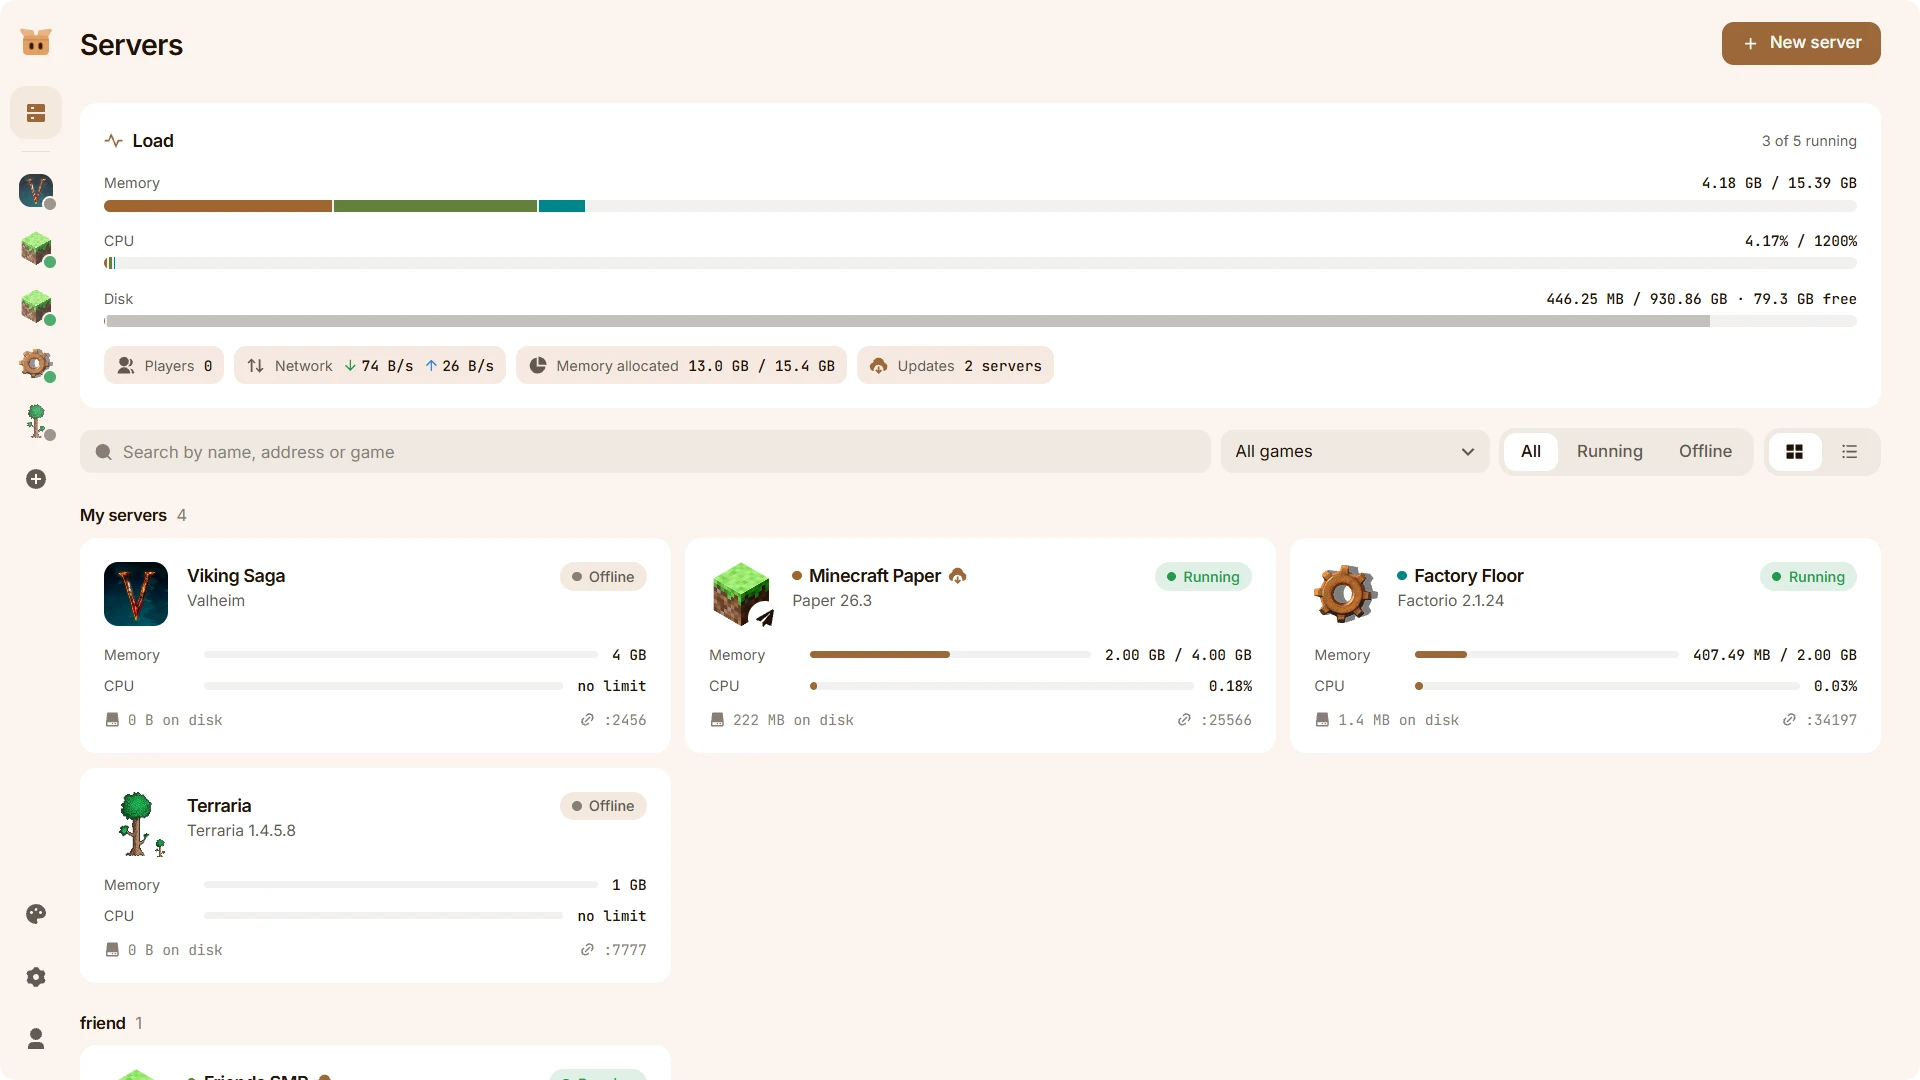
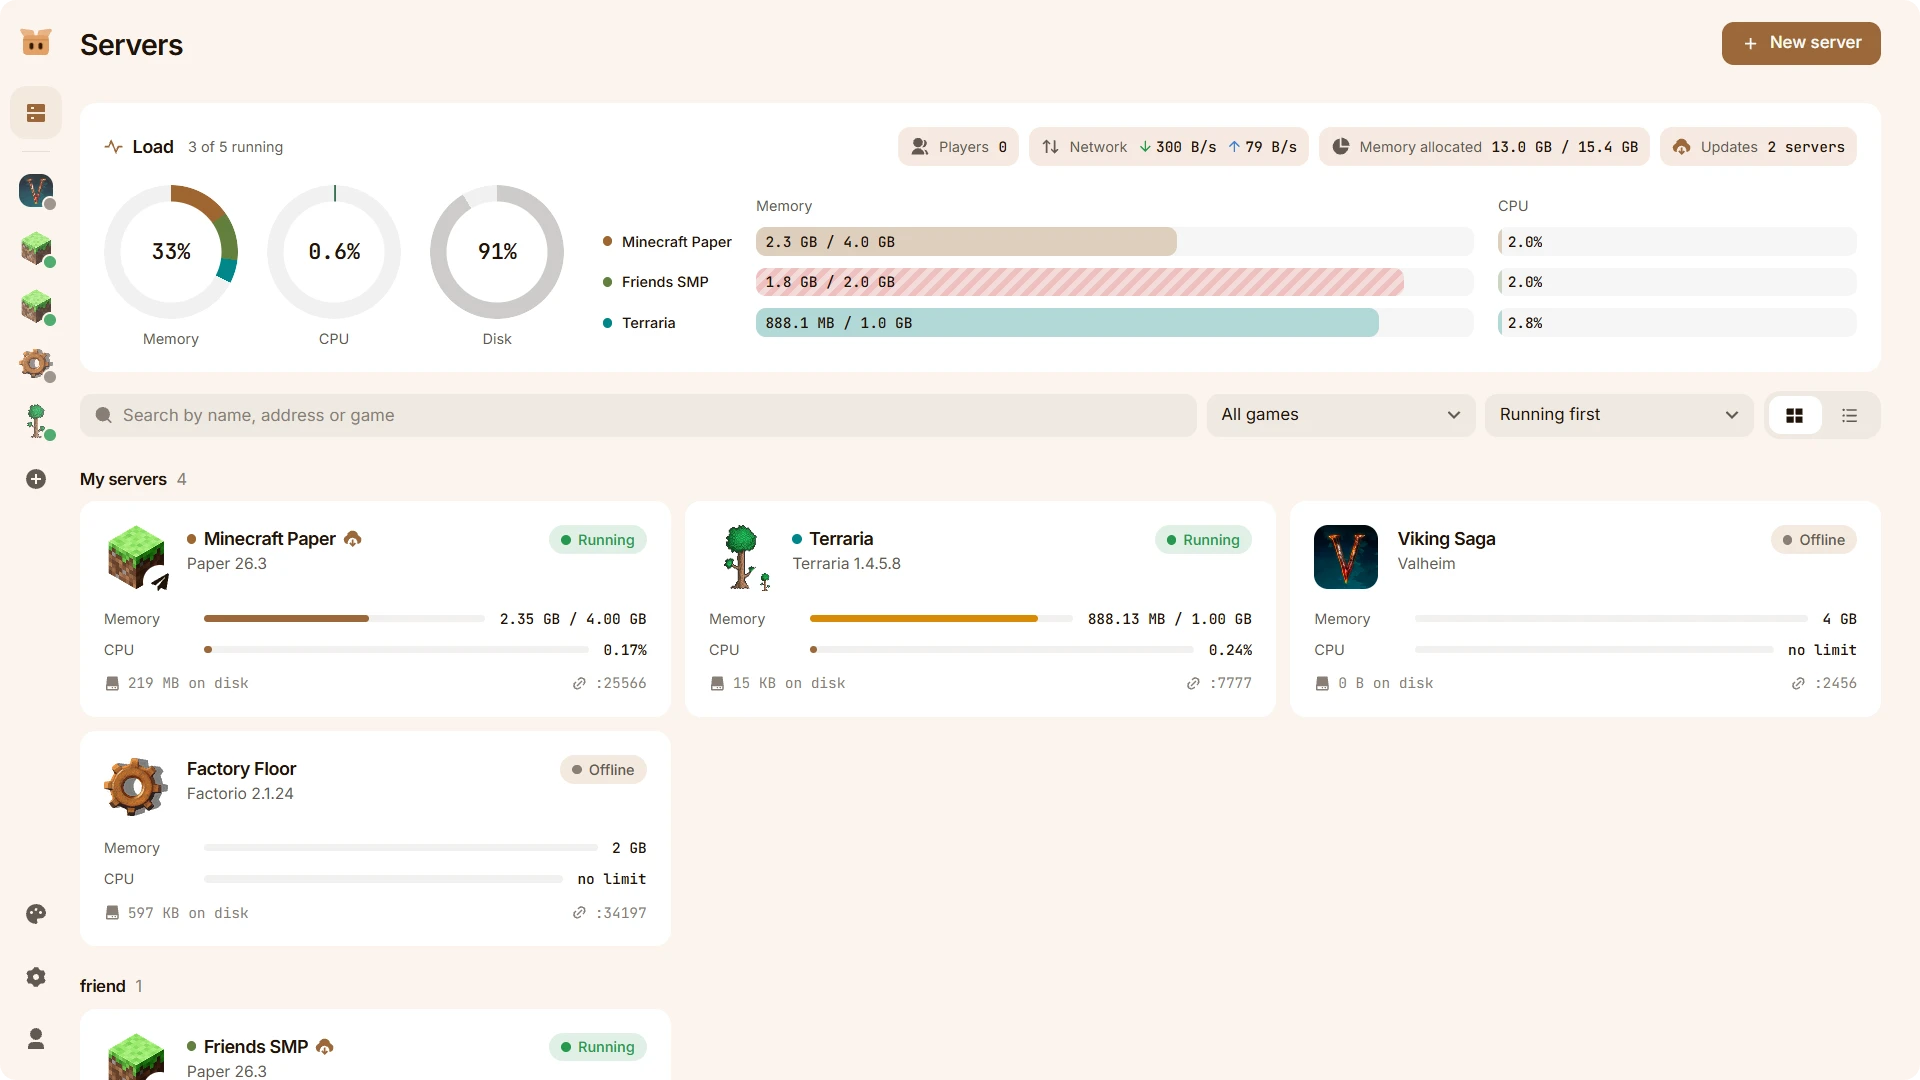
feat: load overview with rings and a per-server table, servers sorted by status
Memory, CPU and disk are rings split by server, and running servers get
a table with memory and CPU bars against their own limits; a bar over
90% turns into moving warning stripes. The five heaviest servers show
first, the rest behind a toggle. Players, network, allocated memory and
updates sit in the card header. The status filter is now a sort,
running servers first by default. Fresh servers screenshot for the README.

diff --git a/apps/web/src/pages/servers.tsx b/apps/web/src/pages/servers.tsx
@@ -1,6 +1,6 @@
 import { RiAddFill, RiDownloadCloud2Fill, RiHardDrive3Fill, RiLayoutGridFill, RiLinkM, RiListUnordered, RiPulseFill, RiGroupFill, RiArrowDownLine, RiArrowUpLine, RiArrowUpDownLine, RiPieChart2Fill, RiSearchFill } from '@remixicon/react'
 import { useQueries, useQuery } from '@tanstack/react-query'
-import type { GameTemplate, QuickStats, Server, ServerStatus } from '@hako/shared'
+import type { GameTemplate, QuickStats, Server } from '@hako/shared'
 import { Button, Card, EmptyState, Input, Segmented, Select, Skeleton, Tooltip, cn } from '@hako/ui'
 import { Fragment, type ReactNode, useState } from 'react'
 import { useTranslation } from 'react-i18next'
@@ -17,8 +17,8 @@ import { formatBytes } from '../lib/format'
 import { ServerSummary } from './server'
 
 const GRID = 'grid grid-cols-1 gap-3 sm:grid-cols-2 xl:grid-cols-3'
-const STATUS_FILTERS = ['all', 'running', 'offline'] as const
-type StatusFilter = (typeof STATUS_FILTERS)[number]
+const SORTS = ['running', 'offline'] as const
+type Sort = (typeof SORTS)[number]
 type View = 'grid' | 'list'
 const VIEW_KEY = 'hako:servers-view'
 
@@ -86,16 +86,16 @@ function segmentColor(index: number) {
   return `oklch(from var(--color-accent) l max(c, 0.1) calc(h + ${index * 67}))`
 }
 
-type Segment = { id: string; amount: number; color: string; tip: ReactNode }
+type Segment = { id: string; amount: number; color: string }
 
 function SegmentTip({ color, title, rows }: { color: string; title: ReactNode; rows: [string, ReactNode][] }) {
   return (
-    <div className="flex min-w-44 flex-col gap-1.5">
+    <div className="flex min-w-56 flex-col gap-2.5 p-1.5">
       <div className="flex items-center gap-2 font-medium">
         <span className="size-2 shrink-0 rounded-full" style={{ background: color }} />
         <span className="truncate">{title}</span>
       </div>
-      <dl className="grid grid-cols-[auto_1fr] gap-x-4 gap-y-0.5">
+      <dl className="grid grid-cols-[auto_1fr] gap-x-8 gap-y-1.5">
         {rows.map(([label, value]) => (
           <Fragment key={label}>
             <dt className="text-muted-foreground">{label}</dt>
@@ -107,23 +107,38 @@ function SegmentTip({ color, title, rows }: { color: string; title: ReactNode; r
   )
 }
 
-function StackedBar({ label, value, total, parts }: { label: string; value: string; total: number; parts: Segment[] }) {
+function Ring({ label, value, total, parts }: { label: string; value: string; total: number; parts: Segment[] }) {
+  let at = 0
+  const stops = total
+    ? parts.map((part) => {
+        const from = at
+        at = Math.min(100, at + (part.amount / total) * 100)
+        return `${part.color} ${from}% ${at}%`
+      })
+    : []
+  const track = 'color-mix(in oklab, var(--color-foreground) 6%, transparent)'
   return (
-    <div className="flex flex-col gap-1.5">
-      <div className="flex items-center justify-between gap-3 text-xs">
+    <Tooltip content={<span className="font-mono tabular-nums">{value}</span>}>
+      <div className="flex flex-col items-center gap-2 text-xs">
+        <div className="relative size-28">
+          <div className="absolute inset-0 rounded-full transition-[background] duration-700 [mask:radial-gradient(farthest-side,transparent_calc(100%-17px),#000_calc(100%-16px))]" style={{ background: `conic-gradient(${[...stops, `${track} ${at}% 100%`].join(', ')})` }} />
+          <span className="absolute inset-0 grid place-items-center font-mono text-lg font-semibold tabular-nums">{total ? `${at < 10 ? at.toFixed(1) : Math.round(at)}%` : '—'}</span>
+        </div>
         <span className="text-muted-foreground">{label}</span>
-        <span className="font-mono font-medium tabular-nums">{value}</span>
       </div>
-      <div className="flex h-2.5 gap-0.5 overflow-hidden rounded-full bg-foreground/[0.06]">
-        {total
-          ? parts.map((part) => (
-              <Tooltip key={part.id} content={part.tip}>
-                <span className="h-full transition-[width,filter] duration-700 hover:brightness-125" style={{ width: `${Math.min(100, (part.amount / total) * 100)}%`, background: part.color }} />
-              </Tooltip>
-            ))
-          : null}
-      </div>
-    </div>
+    </Tooltip>
+  )
+}
+
+const STRIPE_A = 'color-mix(in oklab, var(--color-danger) 30%, transparent)'
+const STRIPE_B = 'color-mix(in oklab, var(--color-danger) 14%, transparent)'
+
+function UsageCell({ value, share, color }: { value: string; share: number; color: string }) {
+  return (
+    <span className="relative flex h-6 items-center overflow-hidden rounded-md bg-foreground/[0.04] px-2">
+      <span className={cn('absolute inset-y-0 left-0 rounded-md transition-[width] duration-700', share > 0.9 && 'motion-safe:animate-stripes')} style={{ width: `${Math.max(1, Math.min(100, share * 100))}%`, ...(share > 0.9 ? { backgroundImage: `linear-gradient(-45deg, ${STRIPE_A} 25%, ${STRIPE_B} 25% 50%, ${STRIPE_A} 50% 75%, ${STRIPE_B} 75%)`, backgroundSize: '16px 16px' } : { backgroundColor: `color-mix(in oklab, ${color} 28%, transparent)` }) }} />
+      <span className="relative truncate font-mono font-medium tabular-nums">{value}</span>
+    </span>
   )
 }
 
@@ -150,6 +165,8 @@ function UsageCard({ servers, stats }: { servers: Server[]; stats: Record<string
   const system = useQuery({ queryKey: ['system'], queryFn: api.system, staleTime: 30_000 })
   const running = servers.filter((s) => s.status === 'running')
   const live = liveServers(servers, stats)
+  const [expanded, setExpanded] = useState(false)
+  const hiddenCount = expanded ? 0 : Math.max(0, live.length - 5)
   const memory = live.reduce((sum, e) => sum + e.stats.memory, 0)
   const cpu = live.reduce((sum, e) => sum + e.stats.cpu, 0)
   const hostMemory = (system.data?.memory ?? 0) * 1024 * 1024
@@ -177,15 +194,45 @@ function UsageCard({ servers, stats }: { servers: Server[]; stats: Record<string
     />
   )
   const otherDisk = hostDisk ? Math.max(0, hostDisk.total - hostDisk.free - disk) : 0
-  const diskTip = (color: string, title: string, amount: number) => <SegmentTip color={color} title={title} rows={[[t('servers.specDisk'), hostDisk ? `${formatBytes(amount, 2)} · ${((amount / hostDisk.total) * 100).toFixed(1)}%` : formatBytes(amount, 2)]]} />
   return (
     <Card className="flex flex-col gap-4 p-5">
-      <div className="flex flex-wrap items-center justify-between gap-x-3 gap-y-1">
-        <span className="flex items-center gap-2 text-[0.9375rem] font-semibold tracking-tight [&_svg]:size-4 [&_svg]:text-accent">
-          <RiPulseFill />
-          {t('servers.usage')}
-        </span>
-        <span className="text-xs text-muted-foreground">{t('servers.usageHint', { count: running.length, total: servers.length })}</span>
+      <div className="flex flex-wrap items-center justify-between gap-x-4 gap-y-3">
+        <div className="flex flex-wrap items-center gap-x-3 gap-y-2">
+          <span className="flex items-center gap-2 text-[0.9375rem] font-semibold tracking-tight [&_svg]:size-4 [&_svg]:text-accent">
+            <RiPulseFill />
+            {t('servers.usage')}
+          </span>
+          <span className="text-xs text-muted-foreground">{t('servers.usageHint', { count: running.length, total: servers.length })}</span>
+        </div>
+        {loading ? null : (
+        <div className="flex flex-wrap items-center gap-2">
+          {tracked.length ? (
+            <UsageChip icon={<RiGroupFill />} label={t('servers.players')}>
+              {players}
+            </UsageChip>
+          ) : null}
+          {live.length ? (
+            <UsageChip icon={<RiArrowUpDownLine />} label={t('servers.network')}>
+              <span className="inline-flex items-center gap-0.5 [&_svg]:size-3.5">
+                <RiArrowDownLine className="text-success" />
+                {formatBytes(rxRate, 1)}/s
+              </span>
+              <span className="inline-flex items-center gap-0.5 [&_svg]:size-3.5">
+                <RiArrowUpLine className="text-info" />
+                {formatBytes(txRate, 1)}/s
+              </span>
+            </UsageChip>
+          ) : null}
+          <UsageChip icon={<RiPieChart2Fill />} label={t('servers.allocated')} title={t('servers.allocatedHint')}>
+            {hostMemory ? `${formatBytes(allocated, 1)} / ${formatBytes(hostMemory, 1)}` : formatBytes(allocated, 1)}
+          </UsageChip>
+          {updates ? (
+            <UsageChip icon={<RiDownloadCloud2Fill />} label={t('servers.updates')} accent>
+              {t('servers.updatesValue', { count: updates })}
+            </UsageChip>
+          ) : null}
+        </div>
+        )}
       </div>
       {loading ? (
         <div className="flex flex-col gap-4">
@@ -195,53 +242,62 @@ function UsageCard({ servers, stats }: { servers: Server[]; stats: Record<string
         </div>
       ) : (
         <>
-          <StackedBar
-            label={t('servers.specMemory')}
-            total={hostMemory}
-            value={hostMemory ? `${formatBytes(memory, 2)} / ${formatBytes(hostMemory, 2)}` : formatBytes(memory, 2)}
-            parts={live.map((e) => ({ id: e.server.id, amount: e.stats.memory, color: e.color, tip: serverTip(e) }))}
-          />
-          <StackedBar
-            label={t('servers.specCpu')}
-            total={hostCpu}
-            value={hostCpu ? `${cpu.toFixed(2)}% / ${hostCpu}%` : `${cpu.toFixed(2)}%`}
-            parts={live.map((e) => ({ id: e.server.id, amount: e.stats.cpu, color: e.color, tip: serverTip(e) }))}
-          />
-          <StackedBar
-            label={t('servers.specDisk')}
-            total={hostDisk?.total ?? 0}
-            value={hostDisk ? t('servers.diskUsage', { used: formatBytes(disk, 2), total: formatBytes(hostDisk.total, 2), free: formatBytes(hostDisk.free, 1) }) : formatBytes(disk, 2)}
-            parts={[
-              { id: 'servers', amount: disk, color: 'var(--color-accent)', tip: diskTip('var(--color-accent)', t('servers.diskServers'), disk) },
-              { id: 'other', amount: otherDisk, color: OTHER_DISK, tip: diskTip(OTHER_DISK, t('servers.diskOther'), otherDisk) },
-            ]}
-          />
-          <div className="flex flex-wrap gap-2">
-            {tracked.length ? (
-              <UsageChip icon={<RiGroupFill />} label={t('servers.players')}>
-                {players}
-              </UsageChip>
-            ) : null}
-            {live.length ? (
-              <UsageChip icon={<RiArrowUpDownLine />} label={t('servers.network')}>
-                <span className="inline-flex items-center gap-0.5 [&_svg]:size-3.5">
-                  <RiArrowDownLine className="text-success" />
-                  {formatBytes(rxRate, 1)}/s
-                </span>
-                <span className="inline-flex items-center gap-0.5 [&_svg]:size-3.5">
-                  <RiArrowUpLine className="text-info" />
-                  {formatBytes(txRate, 1)}/s
-                </span>
-              </UsageChip>
-            ) : null}
-            <UsageChip icon={<RiPieChart2Fill />} label={t('servers.allocated')} title={t('servers.allocatedHint')}>
-              {hostMemory ? `${formatBytes(allocated, 1)} / ${formatBytes(hostMemory, 1)}` : formatBytes(allocated, 1)}
-            </UsageChip>
-            {updates ? (
-              <UsageChip icon={<RiDownloadCloud2Fill />} label={t('servers.updates')} accent>
-                {t('servers.updatesValue', { count: updates })}
-              </UsageChip>
-            ) : null}
+          <div className="flex flex-wrap items-center gap-x-8 gap-y-5">
+            <div className="flex gap-6">
+              <Ring
+                label={t('servers.specMemory')}
+                total={hostMemory}
+                value={hostMemory ? `${formatBytes(memory, 2)} / ${formatBytes(hostMemory, 2)}` : formatBytes(memory, 2)}
+                parts={live.map((e) => ({ id: e.server.id, amount: e.stats.memory, color: e.color }))}
+              />
+              <Ring
+                label={t('servers.specCpu')}
+                total={hostCpu}
+                value={hostCpu ? `${cpu.toFixed(2)}% / ${hostCpu}%` : `${cpu.toFixed(2)}%`}
+                parts={live.map((e) => ({ id: e.server.id, amount: e.stats.cpu, color: e.color }))}
+              />
+              <Ring
+                label={t('servers.specDisk')}
+                total={hostDisk?.total ?? 0}
+                value={hostDisk ? t('servers.diskUsage', { used: formatBytes(disk, 2), total: formatBytes(hostDisk.total, 2), free: formatBytes(hostDisk.free, 1) }) : formatBytes(disk, 2)}
+                parts={[
+                  { id: 'servers', amount: disk, color: 'var(--color-accent)' },
+                  { id: 'other', amount: otherDisk, color: OTHER_DISK },
+                ]}
+              />
+            </div>
+            <div className="flex min-w-60 flex-1 flex-col gap-3">
+              {live.length ? (
+                <div className="grid grid-cols-[minmax(0,auto)_minmax(8rem,2fr)_minmax(6rem,1fr)] items-center gap-x-5 gap-y-2.5 text-xs">
+                  <span />
+                  <span className="text-muted-foreground">{t('servers.specMemory')}</span>
+                  <span className="text-muted-foreground">{t('servers.specCpu')}</span>
+                  {live.slice(0, live.length - hiddenCount).map((e) => {
+                    const memoryLimit = e.stats.memoryLimit || e.server.memory * 1024 * 1024
+                    const cpuLimit = e.server.cpu ? e.server.cpu * 100 : hostCpu
+                    return (
+                      <Fragment key={e.server.id}>
+                        <span className="flex min-w-0 items-center">
+                          <Tooltip content={serverTip(e)}>
+                            <span className="flex min-w-0 cursor-help items-center gap-2">
+                              <span className="size-2 shrink-0 rounded-full" style={{ background: e.color }} />
+                              <span className="truncate font-medium">{e.server.name}</span>
+                            </span>
+                          </Tooltip>
+                        </span>
+                        <UsageCell value={`${formatBytes(e.stats.memory, 1)} / ${formatBytes(memoryLimit, 1)}`} share={e.stats.memory / memoryLimit} color={e.color} />
+                        <UsageCell value={e.server.cpu ? `${e.stats.cpu.toFixed(1)}% / ${e.server.cpu * 100}%` : `${e.stats.cpu.toFixed(1)}%`} share={cpuLimit ? e.stats.cpu / cpuLimit : 0} color={e.color} />
+                      </Fragment>
+                    )
+                  })}
+                  {live.length > 5 ? (
+                    <button type="button" onClick={() => setExpanded(!expanded)} className="col-span-full justify-self-start rounded-md py-0.5 text-muted-foreground transition-colors hover:text-foreground">
+                      {expanded ? t('servers.showLess') : t('servers.showMore', { count: hiddenCount })}
+                    </button>
+                  ) : null}
+                </div>
+              ) : null}
+            </div>
           </div>
         </>
       )}
@@ -337,11 +393,6 @@ function ServerRow({ server, game, color }: { server: Server; game: GameTemplate
   )
 }
 
-function matchesStatus(status: ServerStatus, filter: StatusFilter) {
-  if (filter === 'all') return true
-  return filter === 'offline' ? status === 'offline' : status !== 'offline'
-}
-
 export function ServersPage() {
   const { t } = useTranslation()
   const text = useText()
@@ -358,7 +409,7 @@ export function ServersPage() {
   const users = useQuery({ queryKey: keys.users, queryFn: api.users, enabled: user.role === 'admin' })
   const query = params.get('q') ?? ''
   const gameFilter = params.get('game') ?? ''
-  const status = (STATUS_FILTERS as readonly string[]).includes(params.get('status') ?? '') ? (params.get('status') as StatusFilter) : 'all'
+  const sort = (SORTS as readonly string[]).includes(params.get('sort') ?? '') ? (params.get('sort') as Sort) : 'running'
   const setParam = (key: string, value: string) =>
     setParams(
       (p) => {
@@ -376,12 +427,12 @@ export function ServersPage() {
   const needle = query.trim().toLowerCase()
   const shown = list.filter((s) => {
     if (gameFilter && s.game !== gameFilter) return false
-    if (!matchesStatus(s.status, status)) return false
     if (!needle) return true
     const game = gameOf(s.game)
     const variant = game ? variantOption(game, s.variables) : undefined
     return [s.name, serverAddress(s), text(game?.name), variant ? text(variant.label) || variant.value : ''].join(' ').toLowerCase().includes(needle)
   })
+  shown.sort((a, b) => Number((a.status === 'offline') === (sort === 'running')) - Number((b.status === 'offline') === (sort === 'running')))
   const owners = [...new Set(shown.map((s) => s.ownerId))].sort((a, b) => Number(b === user.id) - Number(a === user.id))
   const grouped = user.role === 'admin' && new Set(list.map((s) => s.ownerId)).size > 1
   const groups = grouped
@@ -414,7 +465,7 @@ export function ServersPage() {
                 className="w-full sm:w-56"
               />
             ) : null}
-            <Segmented value={status} onChange={(value) => setParam('status', value)} options={STATUS_FILTERS.map((value) => ({ value, label: t(`servers.filters.${value}`) }))} />
+            <Select value={sort} onValueChange={(value) => setParam('sort', value === 'running' ? '' : value)} options={SORTS.map((value) => ({ value, label: t(`servers.sort.${value}`) }))} className="w-full sm:w-56" />
             <Segmented
               value={view}
               onChange={changeView}

diff --git a/apps/web/src/locales/ru.ts b/apps/web/src/locales/ru.ts
@@ -209,6 +209,8 @@ export const ru = {
     diskOther: 'Остальное на диске',
     diskUsage: '{{used}} / {{total}} · свободно {{free}}',
     usageHint: '{{count}} из {{total}} запущено',
+    showMore: 'ещё {{count}}',
+    showLess: 'Свернуть',
     mine: 'Мои серверы',
     unknownOwner: 'Без владельца',
     onDisk: '{{size}} на диске',
@@ -225,10 +227,9 @@ export const ru = {
     search: 'Поиск по названию, адресу или игре',
     allGames: 'Все игры',
     nothingFound: 'Под фильтры ничего не подходит',
-    filters: {
-      all: 'Все',
-      running: 'Работают',
-      offline: 'Выключены',
+    sort: {
+      running: 'Сначала работающие',
+      offline: 'Сначала выключенные',
     },
     title: 'Серверы',
     new: 'Новый сервер',

diff --git a/apps/web/src/locales/en.ts b/apps/web/src/locales/en.ts
@@ -211,6 +211,8 @@ export const en: Messages = {
     diskOther: 'Everything else on the volume',
     diskUsage: '{{used}} / {{total}} · {{free}} free',
     usageHint: '{{count}} of {{total}} running',
+    showMore: '{{count}} more',
+    showLess: 'Show less',
     mine: 'My servers',
     unknownOwner: 'No owner',
     onDisk: '{{size}} on disk',
@@ -227,10 +229,9 @@ export const en: Messages = {
     search: 'Search by name, address or game',
     allGames: 'All games',
     nothingFound: 'No servers match the filters',
-    filters: {
-      all: 'All',
-      running: 'Running',
-      offline: 'Offline',
+    sort: {
+      running: 'Running first',
+      offline: 'Stopped first',
     },
     title: 'Servers',
     new: 'New server',

diff --git a/apps/web/src/styles.css b/apps/web/src/styles.css
@@ -41,3 +41,12 @@ body {
   display: flex;
   flex-direction: column;
 }
+
+@theme {
+  --animate-stripes: stripes 1s linear infinite;
+  @keyframes stripes {
+    to {
+      background-position: 16px 0;
+    }
+  }
+}
